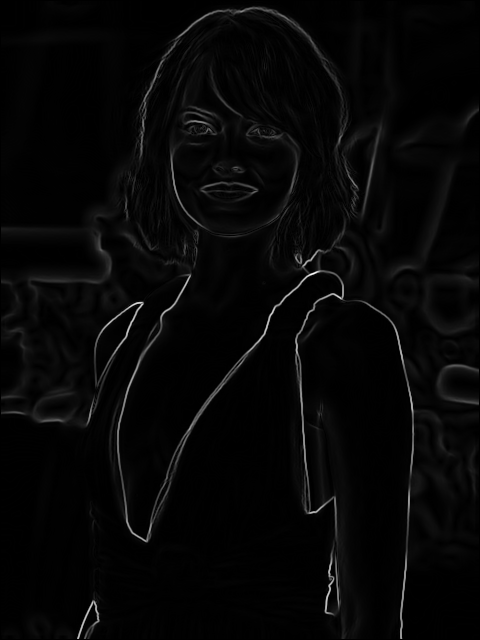
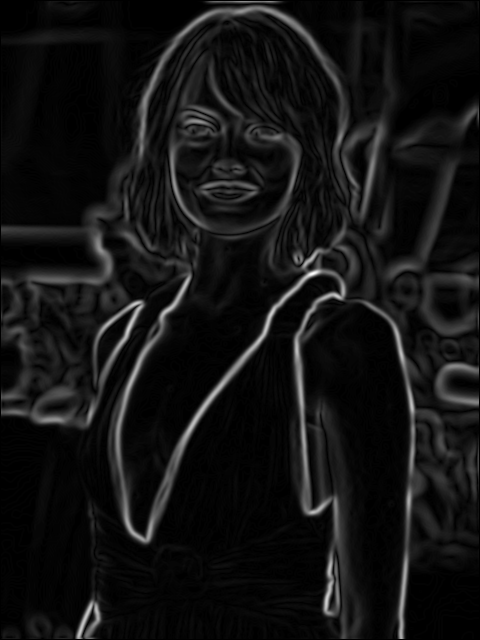
getopt

Changed region(s): [[0.0, 0.0, 1.0, 1.0], [0.1562, 0.9375, 0.2188, 1.0], [0.9375, 0.1562, 1.0, 0.2188]]

diff --git a/main.cpp b/main.cpp
@@ -1,6 +1,7 @@
 #include <FreeImage.h>
 #include <math.h>
 #include <string.h>
+#include <unistd.h>
 #include <iostream>
 #include <stdlib.h>
 #include <cstring>
@@ -441,19 +442,25 @@ void aggregateOutputAndSaveImage(const char *filepath, BYTE *dst, const char *st
 void start(int argc, char* argv[]){
     const char* filepath = "";
     int stage = 0;
+    int ch = 0;
+    bool useGaussian = 0;
     if (argc < 3) {
         std::cout << "Usage: mpirun -n <# of cores> ./main -f <image file>" << std::endl;
         exit(-1);
     }
-    if (strcmp(argv[1], "-f") == 0) {
-        filepath = argv[2];
-    } else {
-        std::cout << "Usage: mpirun -n <# of cores> ./main -f <image file>" << std::endl;
-        exit(-1);
-    }
-    if (argc == 4){
-        if(strcmp(argv[3], "-s") == 0){
-            stage = 1;
+    while ((ch = getopt(argc, argv, "f:s:g")) != -1)
+    {
+        switch (ch)
+        {
+            case 'f':
+                filepath = optarg;
+                break;
+            case 's':
+                stage = atoi(optarg);
+                break;
+            case 'g':
+                useGaussian = 1;
+                break;
         }
     }
 
@@ -521,10 +528,12 @@ void start(int argc, char* argv[]){
     }
     MPI_Bcast(src, PITCH * HEIGHT, MPI_BYTE, 0, MPI_COMM_WORLD);
 
-    float *gaussianFilter = getGaussianFilterKernel(15, 2.f);
-    applyGaussianFilter(src, dst, 15, gaussianFilter);
-    
-    // applyBilateralFilter(src, dst, 9, 30.f, 20.f);
+    if(useGaussian){
+        float *gaussianFilter = getGaussianFilterKernel(15, 2.f);
+        applyGaussianFilter(src, dst, 15, gaussianFilter);
+    } else {
+        applyBilateralFilter(src, dst, 9, 30.f, 20.f);
+    }
 
     copyBlockToBuffer(dst);
     for (int i = 0; i < 9; i++) {
@@ -536,8 +545,11 @@ void start(int argc, char* argv[]){
     recvBlocks(dst, PARTITION.neighborCount, TAG_OUTPUT_STEP1);
 
     if(stage == 1){
-        aggregateOutputAndSaveImage(filepath, dst, "-1-gaussian");
-        // aggregateOutputAndSaveImage(filepath, dst, "-1-bilateral");
+        if(useGaussian){
+            aggregateOutputAndSaveImage(filepath, dst, "-1-gaussian");
+        } else {
+            aggregateOutputAndSaveImage(filepath, dst, "-1-bilateral");
+        }
         return;
     }
 
@@ -559,18 +571,27 @@ void start(int argc, char* argv[]){
     recvBlocks(dst, PARTITION.neighborCount, TAG_OUTPUT_STEP2);
     recvBlocksFloat(direction, PARTITION.neighborCount, TAG_OUTPUT_STEP2_DIRECTION);
 
-    // aggregateOutputAndSaveImage(filepath, dst, "-2-sobel");
+    if(stage == 2){
+        aggregateOutputAndSaveImage(filepath, dst, "-2-sobel");
+        return;
+    }
 
     src = dst;
     dst = new BYTE[PITCH * HEIGHT]();
 
     applyNonMaxSuppression(src, dst, direction);
 
-    // aggregateOutputAndSaveImage(filepath, dst, "-3-nonmax");
+    if(stage == 3){
+        aggregateOutputAndSaveImage(filepath, dst, "-3-nonmax");
+        return;
+    }
 
     applyThreshold(dst);
 
-    // aggregateOutputAndSaveImage(filepath, dst, "-4-thres");
+    if(stage == 4){
+        aggregateOutputAndSaveImage(filepath, dst, "-4-thres");
+        return;
+    }
 
     copyBlockToBuffer(dst);
     for (int i = 0; i < 9; i++) {
